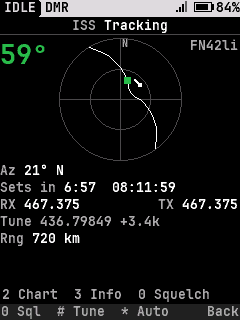
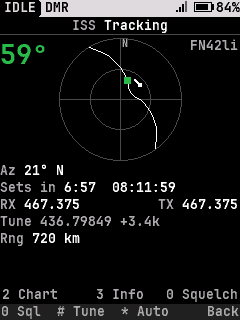
Tracking keys row: 2 at the left, 3 centered, 0 at the right
Claude-Session: https://claude.ai/code/session_01MdiBNQ6CEoU6TQqfu2kZeZ

Changed region(s): [[0.6417, 0.9062, 0.9917, 0.9375], [0.3792, 0.9062, 0.6125, 0.9375], [0.2917, 0.9062, 0.35, 0.9375]]

diff --git a/core/ui/ui_sat.c b/core/ui/ui_sat.c
@@ -781,15 +781,30 @@ static int keys_reserve(void)
 
 static void keys_row(int hy)
 {
-	static char row[40];
+	static char lt[12], mid[12], rt[12];
 	const font_t *fs = ui_layout.small;
 	ui_layout.hint_y = hy;
-	if (gfx_height() <= gfx_width())
+	int w = gfx_width();
+	if (gfx_height() <= w)
 		return;
-	gfx_text_fit(fs, CONFIG_SAT_CHART ? TR(TEXT_ALT_OPEN "2 Chart  3 Info  0 Squelch" TEXT_ALT_NEXT "2 Sig  3 Info  0 Sql" TEXT_ALT_CLOSE) :
-		     TR(TEXT_ALT_OPEN "3 Info  0 Squelch" TEXT_ALT_NEXT "3 Info  0 Sql" TEXT_ALT_CLOSE),
-		     gfx_width() - 4, row, sizeof row);
-	gfx_text(fs, 2, hy - fs->h - (ui_layout.row_h > fs->h ? 1 : 0), row, ui_col.dim);
+	// The keys spread across the row: 2 at the left, 3 in the middle, 0 at the right. The long labels if all three fit
+	// with a gap between, else the short ones (text alternates, one level for the three so they read alike)
+	for (int level = 0; level < 2; level++) {
+		bool more;
+		lt[0] = '\0';
+		if (CONFIG_SAT_CHART)
+			gfx_text_alt(TR(TEXT_ALT_OPEN "2 Chart" TEXT_ALT_NEXT "2 Sig" TEXT_ALT_CLOSE), level, lt, sizeof lt, &more);
+		str_copy(mid, sizeof mid, TR("3 Info"));
+		gfx_text_alt(TR(TEXT_ALT_OPEN "0 Squelch" TEXT_ALT_NEXT "0 Sql" TEXT_ALT_CLOSE), level, rt, sizeof rt, &more);
+		int lw = gfx_text_width(fs, lt), mw = gfx_text_width(fs, mid), rw = gfx_text_width(fs, rt);
+		int mx = (w - mw) / 2;
+		if (level == 1 || (2 + lw + fs->w <= mx && mx + mw + fs->w <= w - 2 - rw))
+			break;
+	}
+	int ky = hy - fs->h - (ui_layout.row_h > fs->h ? 1 : 0);
+	gfx_text(fs, 2, ky, lt, ui_col.dim);
+	gfx_text(fs, (w - gfx_text_width(fs, mid)) / 2, ky, mid, ui_col.dim);
+	gfx_text(fs, w - gfx_text_width(fs, rt) - 2, ky, rt, ui_col.dim);
 }
 
 // The Info view (3): the pass's times to the second in large text, and what the Tracking screen has no room for: the highest

diff --git a/docs/spec/ui.md b/docs/spec/ui.md
@@ -295,7 +295,7 @@ the results arrive; a list redraws every second.
 | Frequency | Tracking > OK (`sat-freq`): the typed digits large as on the VFO (`ui_freq_entry_digit` / `ui_freq_entry_hz`: positional, only digits some receive band can start with), what it is for, "Receive only", the satellite's own downlink and, when set, yours. OK saves the typed frequency for the satellite (`UI_SET_SAT_ALT_NORAD` / `_HZ`: one frequency, the last typed) and listens on it, as the base the Doppler works on (a toast says "Listening on 145.80000: RX only"); with nothing typed it just leaves. Tracking's OK then swaps between it and the satellite's own ("The satellite's own frequency"), and an "OK" row there shows the frequency a press swaps to. The screen lists "Its own" and "Yours" under the digits. Back takes a digit back, with none typed it leaves. A fewer-than-MHz-digits or out-of-band entry is refused with its toast and the screen stays. Kept in the settings across power cycles; Tracking starts on the satellite's own each time. The TX row on Tracking reads "RX only" while yours is on. The stack is 7 deep for it (Home, hub, Tools, Satellites, Passes, Tracking, Frequency) |
 | Track info | `3` on Tracking (`trk_view`, drawn by `info_draw`, closed by `3` or Back; `2` goes to the Chart, `0` works, the other keys do nothing while it shows): "Pass info" with AOS, MAX and LOS to the second in large text (MAX with the pass's highest elevation), the length of the pass, the satellite's downlink, uplink and uplink tone, the grid locator in full and the age of its elements (warning color past 7 days); a small panel drops what doesn't fit from the bottom |
 | Track chart | `2` on Tracking (`CONFIG_SAT_CHART`, `trk_view` = chart, drawn by `chart_draw`, closed by `2` or Back; `3` goes to the Info, `0` works): "Signal", the receiver's level over the pass against time. The readings come from the radio's RSSI (the home meter's), taken at every draw of the Tracking screen in any of its views (`sig_sample`, FM only) into `core/sat/sat_sig.c`: bins of 2 s from 30 s before the rise to 30 s after the set, the highest reading in a bin kept (512 bins at most), reset when another pass is tracked. A bin with no reading stays blank, so time spent on another screen is a gap, not a squeezed line; a line joins only bins that follow each other. The vertical axis is 5 dB beyond the lowest and highest reading, at least 20 dB, within -140 and -30 dBm (a default range before the first reading). Lines mark AOS, MAX and LOS and the present; the satellite's elevation (the path's 24 points spread over the pass) is drawn dim behind the readings so the two compare; a box marks the best reading. Under the box: Best (level and time), Lowest, Now; a small panel keeps the Best row only |
-| Track keys row | a tall panel keeps a row above the hint bar for the keys the bar has no room for, in every view of Tracking: "2 Chart  3 Info  0 Squelch", or "2 Sig  3 Info  0 Sql" when that is too wide (a text alternate); without `CONFIG_SAT_CHART` there is no `2` |
+| Track keys row | a tall panel keeps a row above the hint bar for the keys the bar has no room for, in every view of Tracking: "2 Chart" at the left, "3 Info" centered and "0 Squelch" at the right, or "2 Sig" and "0 Sql" when the long labels don't fit with a gap between (text alternates, one level for all three); without `CONFIG_SAT_CHART` there is no `2` |
 | Track grid | your Maidenhead locator (`sb_locator`, 6 characters, "FN42li") from the position the passes are worked out for (`ui_sat_status_t.pos_ok`, `lat_e7`, `lon_e7`; none without a position). On a tall panel the bare locator ("FN42li", dim, no label) sits in the plot's upper right corner (the Info view has it labeled); beside the plot it follows the countdown ("AOS 26:58  FN42li") when the row is wide enough. A small panel drops it; the 128x64 panel has no room |
 | Set time | Settings > Location > Set time (`set-time`): UTC as `2026-10-28` over `14:05:02`, the selected field underlined, and the same moment in local time. Up / Down / the knob change the field; digits fill it (two for the year's last two, then the next field); `#` or Right goes to the next field, Left back; OK sets the clock (and the RTC, [satellite.md](satellite.md) 4.1.1), Back leaves it. "Not a date" for a day that month doesn't have. Not field use |
 | Receive sound | the last row of the list, with `CONFIG_SAT_SOUND` ([sound-transfer.md](sound-transfer.md); `sat-sound`, `ui_sat.c`): opening it asks the radio core to listen at the microphone (`radio_req_sound`), leaving it stops. The title "Receive sound"; while listening a bar for the level, before the first satellite a line "Lvl 450 Fr 2 Err 1" (the loudest sample of the last block, frames decoded, frames that failed a check), then "Sats heard 3 of 32", "New 2  Updated 1" and "Kept 0  Problems 0" (new is a satellite the radio didn't have, kept the same or an older set); not on a DMR channel, transmitting or storing, or with no store: two lines say so, in the warning color. Another firmware's bytes in the satellite area (6.3 of [satellite.md](satellite.md)): two lines say so and two dim ones that the web installer clears them after a full backup. A list with no satellites stored says "No satellites stored: load them over the cable, or by sound" in its body and still has this row |
